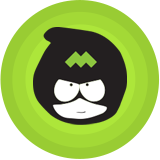
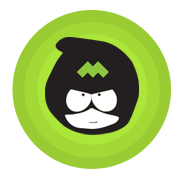
new head, types for myst process

diff --git a/src/renderer/store/modules/mystProcess.js b/src/renderer/store/modules/mystProcess.js
@@ -1,22 +1,24 @@
+import type from '../types'
+
 const state = {
   log: '',
   err: ''
 }
 
 const mutations = {
-  LOG_INFO (state, log) {
+  [type.LOG_INFO] (state, log) {
     console.log('[mystClient]: ' + log)
     state.log += log
   },
-  LOG_ERROR (state, log) {
+  [type.LOG_ERROR] (state, log) {
     console.log('[mystClientErr]: ' + log)
     state.err += log
   },
-  HEALTHCHECK_SUCCESS (state, res) {
+  [type.HEALTHCHECK_SUCCESS] (state, res) {
     state.running = true
     state.health = res
   },
-  MYST_PROCESS_CLOSE () {
+  [type.MYST_PROCESS_CLOSE] () {
     state.running = false
   }
 }

diff --git a/src/renderer/store/types.js b/src/renderer/store/types.js
@@ -15,5 +15,11 @@ export default {
   IDENTITY_CREATE: 'IDENTITY_CREATE',
   IDENTITY_LIST: 'IDENTITY_LIST',
 
-  PROPOSAL_LIST: 'PROPOSAL_LIST'
+  PROPOSAL_LIST: 'PROPOSAL_LIST',
+
+  LOG_INFO: 'LOG_INFO',
+  LOG_ERROR: 'LOG_ERROR',
+  HEALTHCHECK_SUCCESS: 'HEALTHCHECK_SUCCESS',
+  MYST_PROCESS_CLOSE: 'MYST_PROCESS_CLOSE'
+
 }
